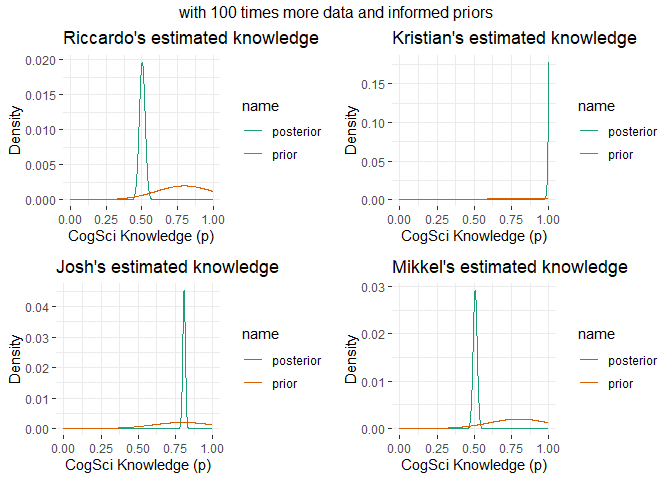
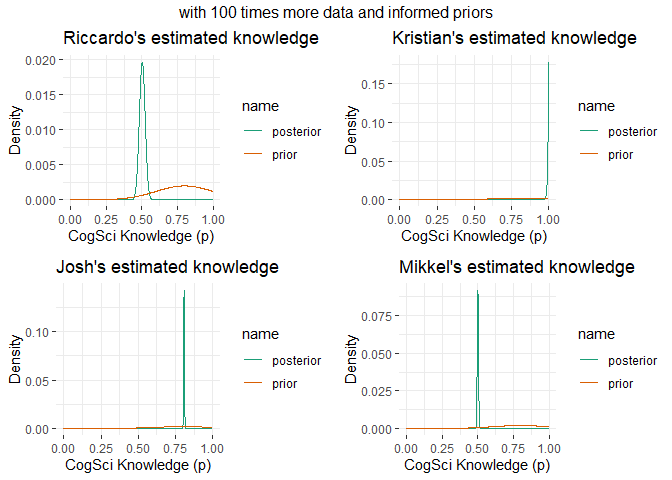
we just learned to multiply by 100...

diff --git a/assignment-2-last-document.md b/assignment-2-last-document.md
@@ -336,13 +336,13 @@ kris4_stan <- calc_teacher_knowledge(200, 200, stan_prior)
 
 
 ## Josh
-josh4_uni <- calc_teacher_knowledge (1600, 1980, uni_prior)
-josh4_stan <- calc_teacher_knowledge(1600, 1980, stan_prior)
+josh4_uni <- calc_teacher_knowledge (16000, 19800, uni_prior)
+josh4_stan <- calc_teacher_knowledge(16000, 19800, stan_prior)
 
 
 ## Mikkel
-mik4_uni <- calc_teacher_knowledge (666, 1320, uni_prior)
-mik4_stan <- calc_teacher_knowledge(666, 1320, stan_prior)
+mik4_uni <- calc_teacher_knowledge (6600, 13200, uni_prior)
+mik4_stan <- calc_teacher_knowledge(6600, 13200, stan_prior)
 
 #summary stats with uniform priors
 summary_stats(ric4_uni)
@@ -367,18 +367,18 @@ summary_stats(josh4_uni)
 ```
 
     ##      |0.8      0.8| 
-    ## 0.7967968 0.8188188 
+    ## 0.8058058 0.8128128 
     ## [1] 0.8078078
-    ## [1] 0.008949287
+    ## [1] 0.00282995
 
 ``` r
 summary_stats(mik4_uni)
 ```
 
     ##      |0.8      0.8| 
-    ## 0.4874875 0.5225225 
-    ## [1] 0.5045045
-    ## [1] 0.01388945
+    ## 0.4934935 0.5045045 
+    ## [1] 0.4994995
+    ## [1] 0.004398021
 
 ``` r
 #summary stats with an informed prior
@@ -404,18 +404,18 @@ summary_stats(josh4_stan)
 ```
 
     ##      |0.8      0.8| 
-    ## 0.7967968 0.8188188 
+    ## 0.8058058 0.8128128 
     ## [1] 0.8078078
-    ## [1] 0.008870406
+    ## [1] 0.002808291
 
 ``` r
 summary_stats(mik4_stan)
 ```
 
     ##      |0.8      0.8| 
-    ## 0.4894895 0.5245245 
-    ## [1] 0.5055055
-    ## [1] 0.01395565
+    ## 0.4934935 0.5045045 
+    ## [1] 0.5005005
+    ## [1] 0.004433293
 
 ``` r
 ## Riccardo
